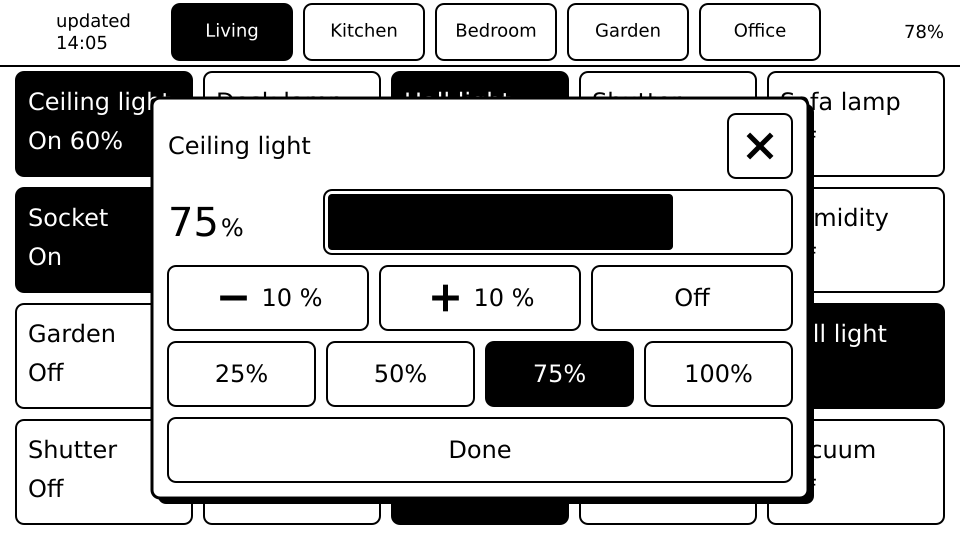
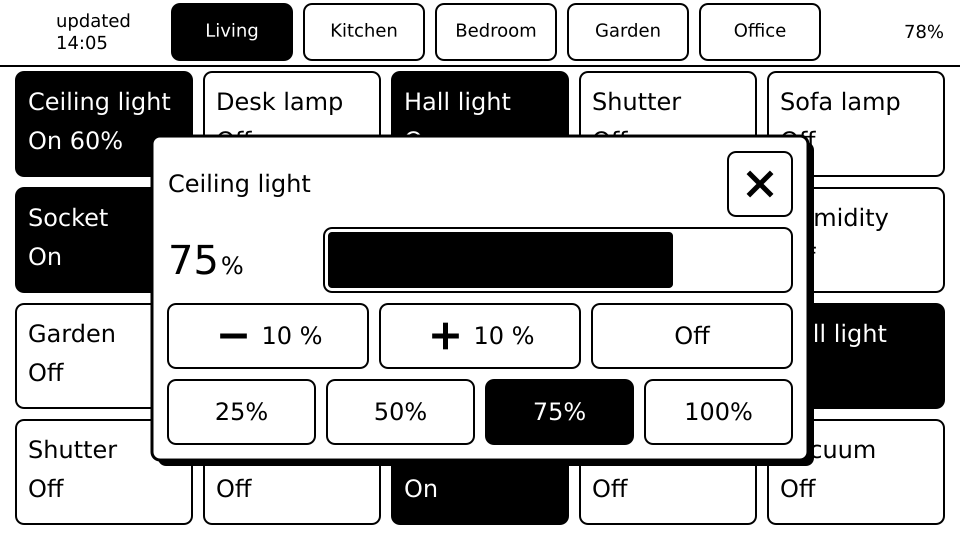
task 045: brightness popup without Done, Off in the step row (PC part; device check pending)

Changed region(s): [[0.1562, 0.1778, 0.875, 0.7111], [0.1562, 0.7407, 0.875, 0.9481]]

diff --git a/lib/ui_state/src/brightness_layout.cpp b/lib/ui_state/src/brightness_layout.cpp
@@ -6,35 +6,33 @@ BrightnessLayout brightnessLayout(settings::Orientation o) {
   BrightnessLayout l;
   if (o == settings::Orientation::Landscape) {
     l.landscape = true;
-    l.panel = {152, 98, 656, 400};
-    l.dirty = {152, 98, 662, 406};
-    l.close = {728, 114, 64, 64};
-    l.percentRegion = {160, 190, 130, 64};
-    l.pending = {284, 210, 24, 24};
-    l.bar = {324, 190, 468, 64};
-    l.minus = {168, 266, 200, 64};
-    l.plus = {380, 266, 200, 64};
-    l.off = {592, 266, 200, 64};
+    l.panel = {152, 136, 656, 324};
+    l.dirty = {152, 136, 662, 330};
+    l.close = {728, 152, 64, 64};
+    l.percentRegion = {160, 228, 130, 64};
+    l.pending = {284, 248, 24, 24};
+    l.bar = {324, 228, 468, 64};
+    l.minus = {168, 304, 200, 64};
+    l.plus = {380, 304, 200, 64};
+    l.off = {592, 304, 200, 64};
     const int px[4] = {168, 327, 486, 645};
-    for (int i = 0; i < 4; ++i) l.presets[i] = {px[i], 342, 147, 64};
-    l.done = {168, 418, 624, 64};
-    l.nameX = 168; l.nameCy = 146; l.nameMaxW = 540;
-    l.percentX = 168; l.percentBaseline = 236; l.percentCentered = false;
+    for (int i = 0; i < 4; ++i) l.presets[i] = {px[i], 380, 147, 64};
+    l.nameX = 168; l.nameCy = 184; l.nameMaxW = 540;
+    l.percentX = 168; l.percentBaseline = 274; l.percentCentered = false;
   } else {
-    l.panel = {16, 240, 508, 456};
-    l.dirty = {16, 240, 514, 462};
-    l.close = {444, 256, 64, 64};
-    l.percentRegion = {190, 324, 160, 56};
-    l.pending = {484, 340, 24, 24};
-    l.bar = {32, 388, 476, 64};
-    l.minus = {32, 464, 232, 64};
-    l.plus = {276, 464, 232, 64};
+    l.panel = {16, 278, 508, 380};
+    l.dirty = {16, 278, 514, 386};
+    l.close = {444, 294, 64, 64};
+    l.percentRegion = {190, 362, 160, 56};
+    l.pending = {484, 378, 24, 24};
+    l.bar = {32, 426, 476, 64};
+    l.minus = {32, 502, 150, 64};
+    l.off = {194, 502, 152, 64};
+    l.plus = {358, 502, 150, 64};
     const int px[4] = {32, 154, 276, 398};
-    for (int i = 0; i < 4; ++i) l.presets[i] = {px[i], 540, 110, 64};
-    l.off = {32, 616, 232, 64};
-    l.done = {276, 616, 232, 64};
-    l.nameX = 32; l.nameCy = 288; l.nameMaxW = 380;
-    l.percentX = 270; l.percentBaseline = 366; l.percentCentered = true;
+    for (int i = 0; i < 4; ++i) l.presets[i] = {px[i], 578, 110, 64};
+    l.nameX = 32; l.nameCy = 326; l.nameMaxW = 380;
+    l.percentX = 270; l.percentBaseline = 404; l.percentCentered = true;
   }
   return l;
 }
@@ -48,7 +46,6 @@ BrightnessHit brightnessHitTest(const BrightnessLayout &l, ui::Point p) {
   for (int i = 0; i < 4; ++i)
     if (l.presets[i].contains(p)) return BrightnessHit(int(BrightnessHit::Preset0) + i);
   if (l.off.contains(p)) return BrightnessHit::Off;
-  if (l.done.contains(p)) return BrightnessHit::Done;
   return BrightnessHit::Panel;
 }
 

diff --git a/test/test_ui_state/test_main.cpp b/test/test_ui_state/test_main.cpp
@@ -1066,12 +1066,13 @@ void test_brightness_layout_hits_and_bar() {
     TEST_ASSERT_EQUAL(int(BrightnessHit::Close), int(brightnessHitTest(l, {l.close.x + 5, l.close.y + 5})));
     TEST_ASSERT_EQUAL(int(BrightnessHit::Bar), int(brightnessHitTest(l, {l.bar.x + 5, l.bar.y + 5})));
     TEST_ASSERT_EQUAL(int(BrightnessHit::Preset2), int(brightnessHitTest(l, {l.presets[2].x + 3, l.presets[2].y + 3})));
-    TEST_ASSERT_EQUAL(int(BrightnessHit::Done), int(brightnessHitTest(l, {l.done.x + 3, l.done.y + 3})));
+    TEST_ASSERT_EQUAL(int(BrightnessHit::Off), int(brightnessHitTest(l, {l.off.x + 3, l.off.y + 3})));
+    TEST_ASSERT_TRUE(ui::rectInside(l.panel, l.dirty));
     TEST_ASSERT_EQUAL(int(BrightnessHit::Panel), int(brightnessHitTest(l, {l.panel.x + 2, l.panel.y + 2})));
     TEST_ASSERT_TRUE(brightnessBarFraction(l, l.bar.x) == 0.0);
     TEST_ASSERT_TRUE(brightnessBarFraction(l, l.bar.x + l.bar.w + 50) == 1.0);
     // every control sits inside the panel
-    for (const ui::Rect &r : {l.close, l.bar, l.minus, l.plus, l.off, l.done, l.presets[0], l.presets[3]})
+    for (const ui::Rect &r : {l.close, l.bar, l.minus, l.plus, l.off, l.presets[0], l.presets[3]})
       TEST_ASSERT_TRUE(ui::rectInside(r, l.panel));
   }
 }

diff --git a/lib/ui_state/src/brightness_layout.h b/lib/ui_state/src/brightness_layout.h
@@ -10,7 +10,7 @@ struct BrightnessLayout {
   bool landscape = false;
   ui::Rect panel;   // frame (3 px border, radius 8)
   ui::Rect dirty;   // panel plus the 6 px shadow
-  ui::Rect close, percentRegion, pending, bar, minus, plus, presets[4], off, done;
+  ui::Rect close, percentRegion, pending, bar, minus, plus, presets[4], off;
   int nameX = 0, nameCy = 0, nameMaxW = 0;
   int percentX = 0, percentBaseline = 0;  // portrait: centre x; landscape: left x
   bool percentCentered = true;
@@ -18,7 +18,7 @@ struct BrightnessLayout {
 
 BrightnessLayout brightnessLayout(settings::Orientation o);
 
-enum class BrightnessHit { Outside, Panel, Close, Bar, Minus, Plus, Preset0, Preset1, Preset2, Preset3, Off, Done };
+enum class BrightnessHit { Outside, Panel, Close, Bar, Minus, Plus, Preset0, Preset1, Preset2, Preset3, Off };
 
 BrightnessHit brightnessHitTest(const BrightnessLayout &l, ui::Point p);
 // Tap position on the bar as a fraction 0..1 of its length (clamped).

diff --git a/lib/ui_state/src/app_state.h b/lib/ui_state/src/app_state.h
@@ -70,7 +70,7 @@ class AppState {
   bool dimmableLightAt(ui::Point p) const;
   bool longPress(ui::Point p, uint32_t now);      // opens the popup on a dimmable light (or history on a sensor); true if opened
   bool openBrightnessFocused(uint32_t now);       // rocker long push on the focused dimmable light
-  bool closeBrightness(uint32_t now);             // Done (flushes an unsent value); true if it was open
+  bool closeBrightness(uint32_t now);             // close (flushes an unsent value); true if it was open
   bool brightnessOpen() const { return popup_.isOpen(); }
   const BrightnessPopup &brightness() const { return popup_; }
   std::string brightnessTitle() const { return widgetTitle(popup_.widget()); }

diff --git a/lib/ui_state/src/brightness_popup.h b/lib/ui_state/src/brightness_popup.h
@@ -1,7 +1,7 @@
 #pragma once
 // Model of the brightness popup (task 045). Pure logic with a millisecond clock; no drawing.
 // The value is optimistic from the first change. Changes are debounced: the last value is sent
-// once kSendDebounceMs passed without input. The popup closes on Done, tap outside or after
+// once kSendDebounceMs passed without input. The popup closes on the close button, tap outside or after
 // kIdleCloseMs without input; closing flushes an unsent value.
 #include <cstdint>
 #include <functional>

diff --git a/src/render/brightness_screen.cpp b/src/render/brightness_screen.cpp
@@ -77,7 +77,6 @@ void drawBrightnessPopup(M5Canvas &c, const uistate::AppState &app) {
   for (int i = 0; i < 4; ++i)
     labelButton(c, l.presets[i], kPresetText[i], !unknown && pct == uistate::kBrightnessPresets[i]);
   labelButton(c, l.off, "Off", !unknown && pct == 0);
-  labelButton(c, l.done, "Done", false);
 }
 
 }  // namespace render

diff --git a/lib/ui_state/src/app_state.cpp b/lib/ui_state/src/app_state.cpp
@@ -446,7 +446,6 @@ bool AppState::popupTouch(ui::Point p, uint32_t now) {
   switch (brightnessHitTest(l, p)) {
     case BrightnessHit::Outside:
     case BrightnessHit::Close:
-    case BrightnessHit::Done:
       return closeBrightness(now);
     case BrightnessHit::Panel: popup_.poke(now); return false;
     case BrightnessHit::Bar: {

diff --git a/docs/ui/brightness.md b/docs/ui/brightness.md
@@ -34,56 +34,56 @@ All targets 64 high. Text boxes follow the 1.2 rule; every element sits inside t
 
 ### 3.1 Portrait (540 x 960)
 
-Panel (16, 240, 508, 456), centred in the content area (68..868). Shadow rect (22, 246, 508, 456).
-Dirty rect of the whole popup = (16, 240, 514, 462).
+Panel (16, 278, 508, 380), centred in the content area (68..868). Shadow rect (22, 284, 508, 380).
+Dirty rect of the whole popup = (16, 278, 514, 386). There is no Done button; the close button is the
+only explicit close control.
 
 | Element | Rect (absolute) | Font / icon | Grey | Notes |
 |---------|-----------------|-------------|------|-------|
-| Panel frame | (16, 240, 508, 456) | border 3, r 8 | INK on PAPER | `w-1-frame` |
-| Name | x = 32, cy = 288, left, max width 380 (to x 412) | F24 | INK | truncated with "…" |
-| Close button | (444, 256, 64, 64) | `close` M | INK, outline | closes (= Done) |
-| Percent | centred at x = 270, cy = 352, box (200, 328, 140, 48) | `60` F40 + `%` F24 sharing the baseline y = 366 (unit dx 2) | INK | when off: `Off` F40. Region (190, 324, 160, 56) |
-| Pending icon | (484, 340, 24, 24), cy = 352 | `hourglass` S / `alert` S | INK | only while a change is unsent or unconfirmed; blank otherwise |
-| Bar (tap target) | (32, 388, 476, 64) | border 2, r 8 | INK on PAPER | |
-| Bar fill | (36, 392, round(468 * pct / 100), 56), r 4 | | INK | empty bar at 0 |
-| Step minus | (32, 464, 232, 64) | `minus` M + `10 %` F24, group centred (icon 40, 8 px, text) | INK, outline | |
-| Step plus | (276, 464, 232, 64) | `plus` M + `10 %` F24 | INK, outline | |
-| Preset 25 | (32, 540, 110, 64) | `25%` F24 centred | | |
-| Preset 50 | (154, 540, 110, 64) | `50%` | | |
-| Preset 75 | (276, 540, 110, 64) | `75%` | | |
-| Preset 100 | (398, 540, 110, 64) | `100%` | | |
-| Off | (32, 616, 232, 64) | `Off` F24 | | |
-| Done | (276, 616, 232, 64) | `Done` F24 | | |
+| Panel frame | (16, 278, 508, 380) | border 3, r 8 | INK on PAPER | `w-1-frame` |
+| Name | x = 32, cy = 326, left, max width 380 (to x 412) | F24 | INK | truncated with "..." |
+| Close button | (444, 294, 64, 64) | `close` M | INK, outline | closes, sends pending value |
+| Percent | centred at x = 270, cy = 390, box (200, 366, 140, 48) | `60` F40 + `%` F24 sharing the baseline y = 404 (unit dx 2) | INK | when off: `Off` F40. Region (190, 362, 160, 56) |
+| Pending icon | (484, 378, 24, 24), cy = 390 | `hourglass` S / `alert` S | INK | only while a change is unsent or unconfirmed; blank otherwise |
+| Bar (tap target) | (32, 426, 476, 64) | border 2, r 8 | INK on PAPER | |
+| Bar fill | (36, 430, round(468 * pct / 100), 56), r 4 | | INK | empty bar at 0 |
+| Step minus | (32, 502, 150, 64) | `minus` M + `10 %` F24, group centred (icon 40, 8 px, text) | INK, outline | |
+| Off | (194, 502, 152, 64) | `Off` F24 centred | | filled when off |
+| Step plus | (358, 502, 150, 64) | `plus` M + `10 %` F24 | INK, outline | |
+| Preset 25 | (32, 578, 110, 64) | `25%` F24 centred | | |
+| Preset 50 | (154, 578, 110, 64) | `50%` | | |
+| Preset 75 | (276, 578, 110, 64) | `75%` | | |
+| Preset 100 | (398, 578, 110, 64) | `100%` | | |
 
 Buttons: outline (PAPER, INK border 2). **Filled (INK, PAPER text) means "current"**: the preset
 equal to the current percent, and Off when the light is off. Disabled: Minus at 0 % and Plus at 100 %
 get the unavailable style (dotted OFF border, OFF glyph, no action). Mockup state: 60 % (no preset
-filled).
+filled). Off moved into the step row (Minus | Off | Plus) to free the old last row; the panel is 76 px
+shorter.
 
 ### 3.2 Landscape (960 x 540)
 
-Panel (152, 98, 656, 400), centred in the content area (72..524). Shadow (158, 104, 656, 400).
-Dirty rect of the whole popup = (152, 98, 662, 406). The two-row top block is compressed: percent
+Panel (152, 136, 656, 324), centred in the content area (72..524). Shadow (158, 142, 656, 324).
+Dirty rect of the whole popup = (152, 136, 662, 330). The two-row top block is compressed: percent
 and bar share a row.
 
 | Element | Rect (absolute) | Font / icon | Notes |
 |---------|-----------------|-------------|-------|
-| Panel frame | (152, 98, 656, 400) | border 3, r 8 | |
-| Name | x = 168, cy = 146, max width 540 | F24 INK | |
-| Close button | (728, 114, 64, 64) | `close` M | |
-| Percent | x = 168 left, cy = 222, box (168, 198, 116, 48) | `75` F40 + `%` F24 on one baseline (y = 236) | `Off` when off. Region (160, 190, 130, 64) |
-| Pending icon | (284, 210, 24, 24), cy = 222 | `hourglass` / `alert` S | |
-| Bar | (324, 190, 468, 64), fill (328, 194, round(460 * pct / 100), 56) | | |
-| Step minus | (168, 266, 200, 64) | `minus` M + `10 %` | |
-| Step plus | (380, 266, 200, 64) | `plus` M + `10 %` | |
-| Off | (592, 266, 200, 64) | `Off` F24 | filled when off |
-| Preset 25 / 50 / 75 / 100 | (168, 342, 147, 64), (327, 342, 147, 64), (486, 342, 147, 64), (645, 342, 147, 64) | F24 | the current one filled (mockup: 75 %) |
-| Done | (168, 418, 624, 64) | F24 | |
+| Panel frame | (152, 136, 656, 324) | border 3, r 8 | |
+| Name | x = 168, cy = 184, max width 540 | F24 INK | |
+| Close button | (728, 152, 64, 64) | `close` M | |
+| Percent | x = 168 left, cy = 260, box (168, 236, 116, 48) | `75` F40 + `%` F24 on one baseline (y = 274) | `Off` when off. Region (160, 228, 130, 64) |
+| Pending icon | (284, 248, 24, 24), cy = 260 | `hourglass` / `alert` S | |
+| Bar | (324, 228, 468, 64), fill (328, 232, round(460 * pct / 100), 56) | | |
+| Step minus | (168, 304, 200, 64) | `minus` M + `10 %` | |
+| Step plus | (380, 304, 200, 64) | `plus` M + `10 %` | |
+| Off | (592, 304, 200, 64) | `Off` F24 | filled when off |
+| Preset 25 / 50 / 75 / 100 | (168, 380, 147, 64), (327, 380, 147, 64), (486, 380, 147, 64), (645, 380, 147, 64) | F24 | the current one filled (mockup: 75 %) |
 
-Checks: portrait 16 + 476 + 16 = 508; 3 * 12 + 4 * 110 = 476; vertical 16 + 64 + 12 + 48 (percent) + 12 +
-64 + 12 + 64 + 12 + 64 + 12 + 64 + 16 = 456 (percent row is 64 high with the 48 box centred).
-Landscape 16 + 624 + 16 = 656; 3 * 200 + 2 * 12 = 624; 4 * 147 + 3 * 12 = 624; vertical 16 + 64 + 12 +
-64 + 12 + 64 + 12 + 64 + 12 + 64 + 16 = 400.
+Checks: portrait 16 + 476 + 16 = 508; 3 * 12 + 4 * 110 = 476; 150 + 12 + 152 + 12 + 150 = 476; vertical
+16 + 64 + 8 + 48 (percent) + 12 + 64 + 12 + 64 + 12 + 64 + 16 = 380 (percent box sits 8 below the close
+button, bar 12 below the box). Landscape 16 + 624 + 16 = 656; 3 * 200 + 2 * 12 = 624; 4 * 147 + 3 * 12 =
+624; vertical 16 + 64 + 12 + 64 + 12 + 64 + 12 + 64 + 16 = 324.
 
 ## 4. Value rules
 
@@ -95,7 +95,7 @@ Landscape 16 + 624 + 16 = 656; 3 * 200 + 2 * 12 = 624; 4 * 147 + 3 * 12 = 624; v
   without input the last value is sent (`brightness_pct`, or `light.turn_off` for 0). Hourglass shows
   from the first input until the state is confirmed by the next fetch; a failed send shows `alert`
   until close; on close the real state is drawn with the usual failed badge on the widget.
-- Close on Done, close button, a tap outside, rocker push, or 10 s without input. Closing with an unsent
+- Close on the close button, a tap outside, rocker push, or 10 s without input. Closing with an unsent
   value sends it immediately (no wait for the debounce).
 
 ## 5. Interactions
@@ -105,11 +105,11 @@ Landscape 16 + 624 + 16 = 656; 3 * 200 + 2 * 12 = 624; 4 * 147 + 3 * 12 = 624; v
 | Long press on a dimmable light / rocker long push on it | open popup at the light's current percent | panel + shadow (one refresh) |
 | Tap bar | set pct from x | percent rect, bar rect, preset buttons that change state, Off button if it changes, pending icon |
 | Tap Minus / Plus / preset / Off | set value | same set as above (+ the tapped button briefly needs nothing extra: no pressed state) |
-| Tap Done, close button, outside | close (sends pending value) | panel + shadow, plus the light widget rect (new "On 60%") |
-| 10 s inactivity | same as Done | same |
+| Tap close button, outside | close (sends pending value) | panel + shadow, plus the light widget rect (new "On 60%") |
+| 10 s inactivity | same as close button | same |
 | Rocker UP / DOWN | + 10 % / - 10 % (UP brighter) | as for Plus / Minus |
-| Rocker PUSH | Done | as Done |
-| Rocker long push | close | as Done |
+| Rocker PUSH | close (sends pending value) | as close |
+| Rocker long push | close | as close |
 
 Rocker order note: task 045 wrote "up/down = -/+10 %"; this spec uses UP = +10 (brighter), which is the
 natural reading and matches the cover widget. Decided: portrait UP = brighter; landscape the key pointing right (BtnC) = brighter.
